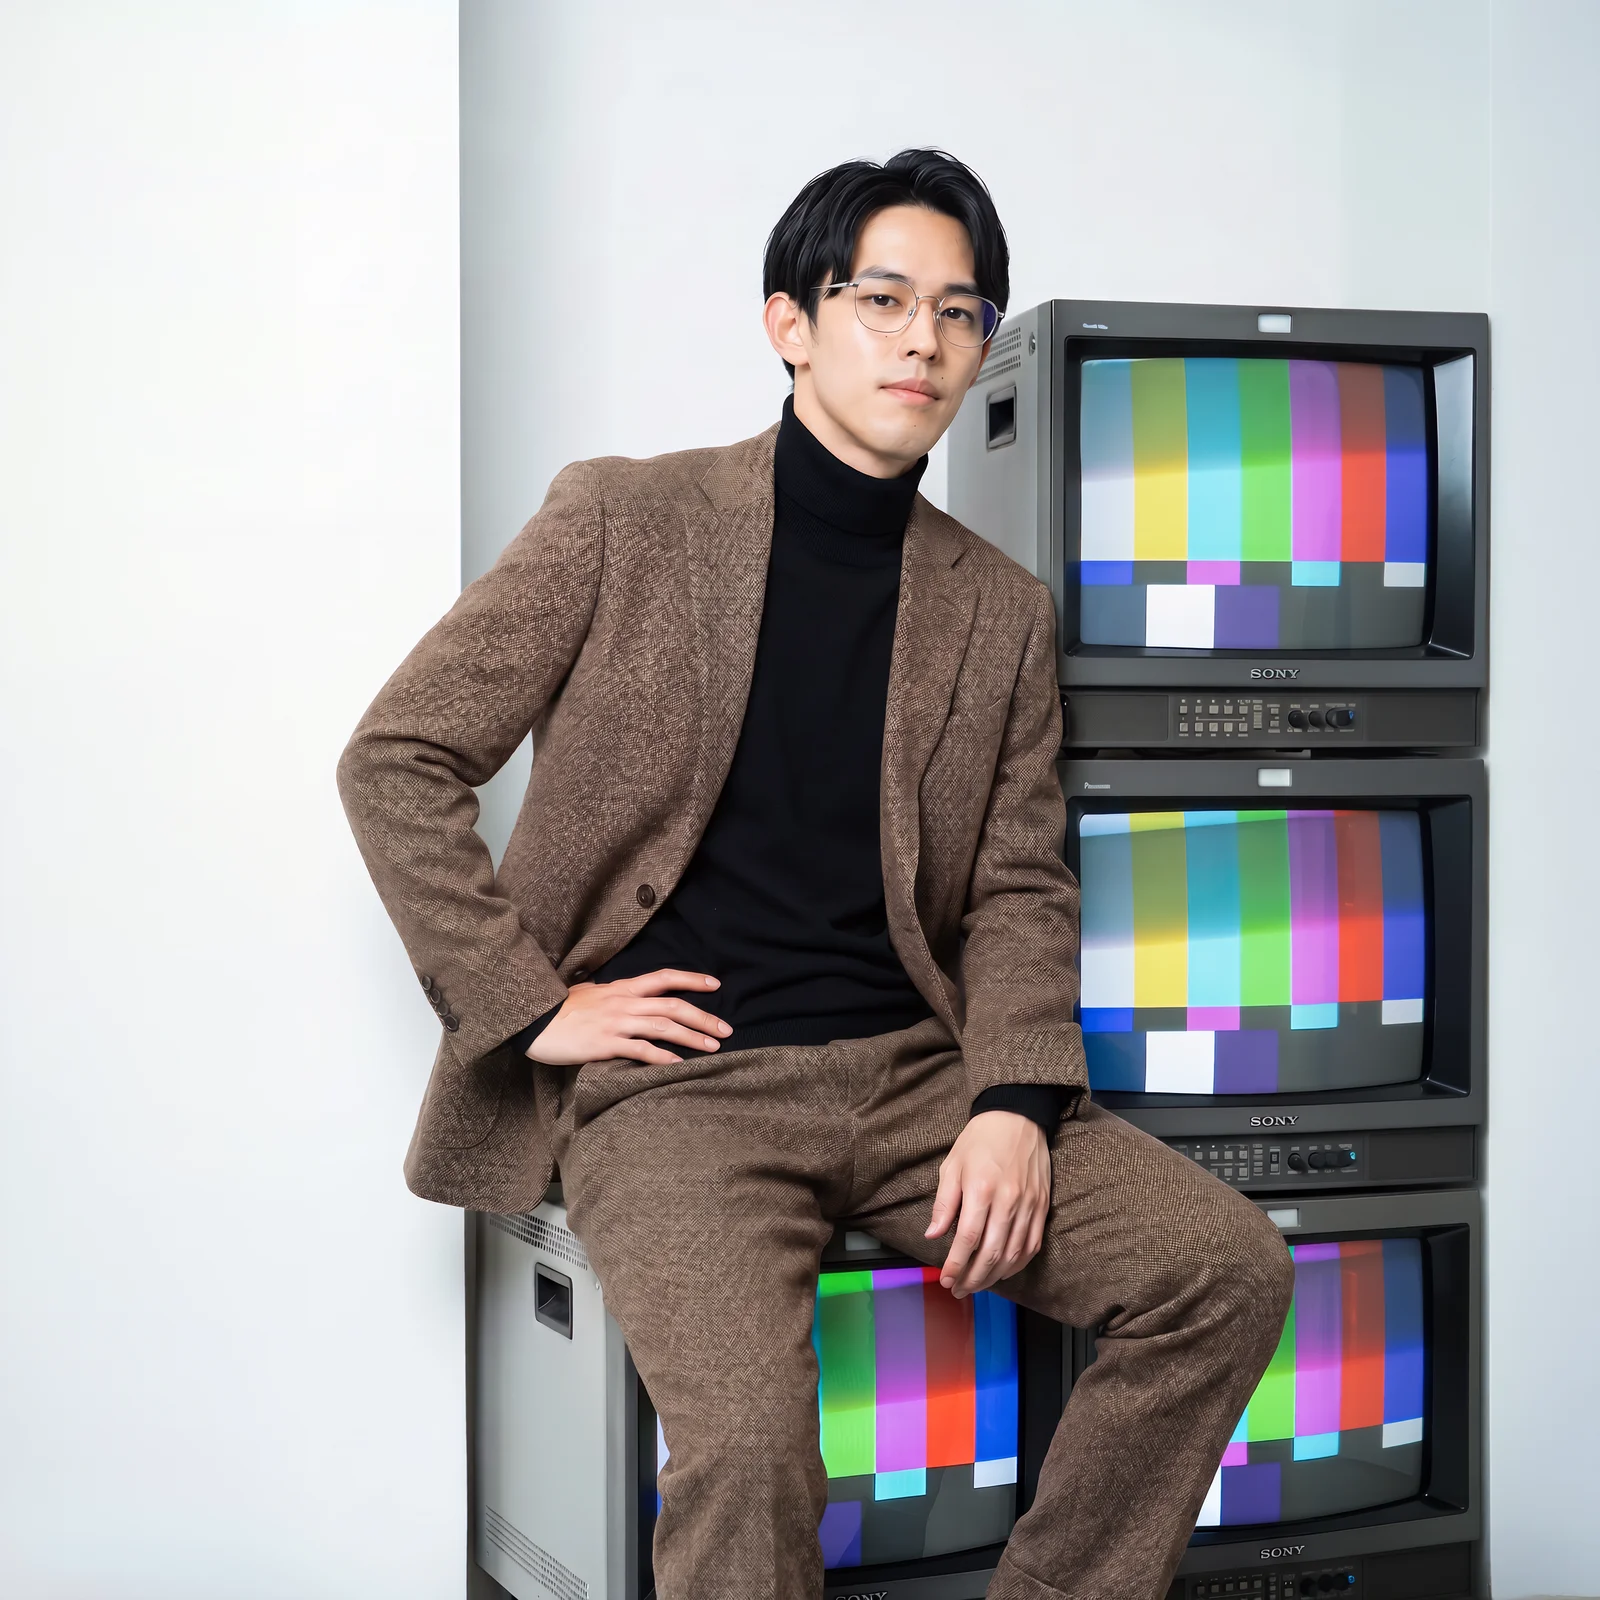
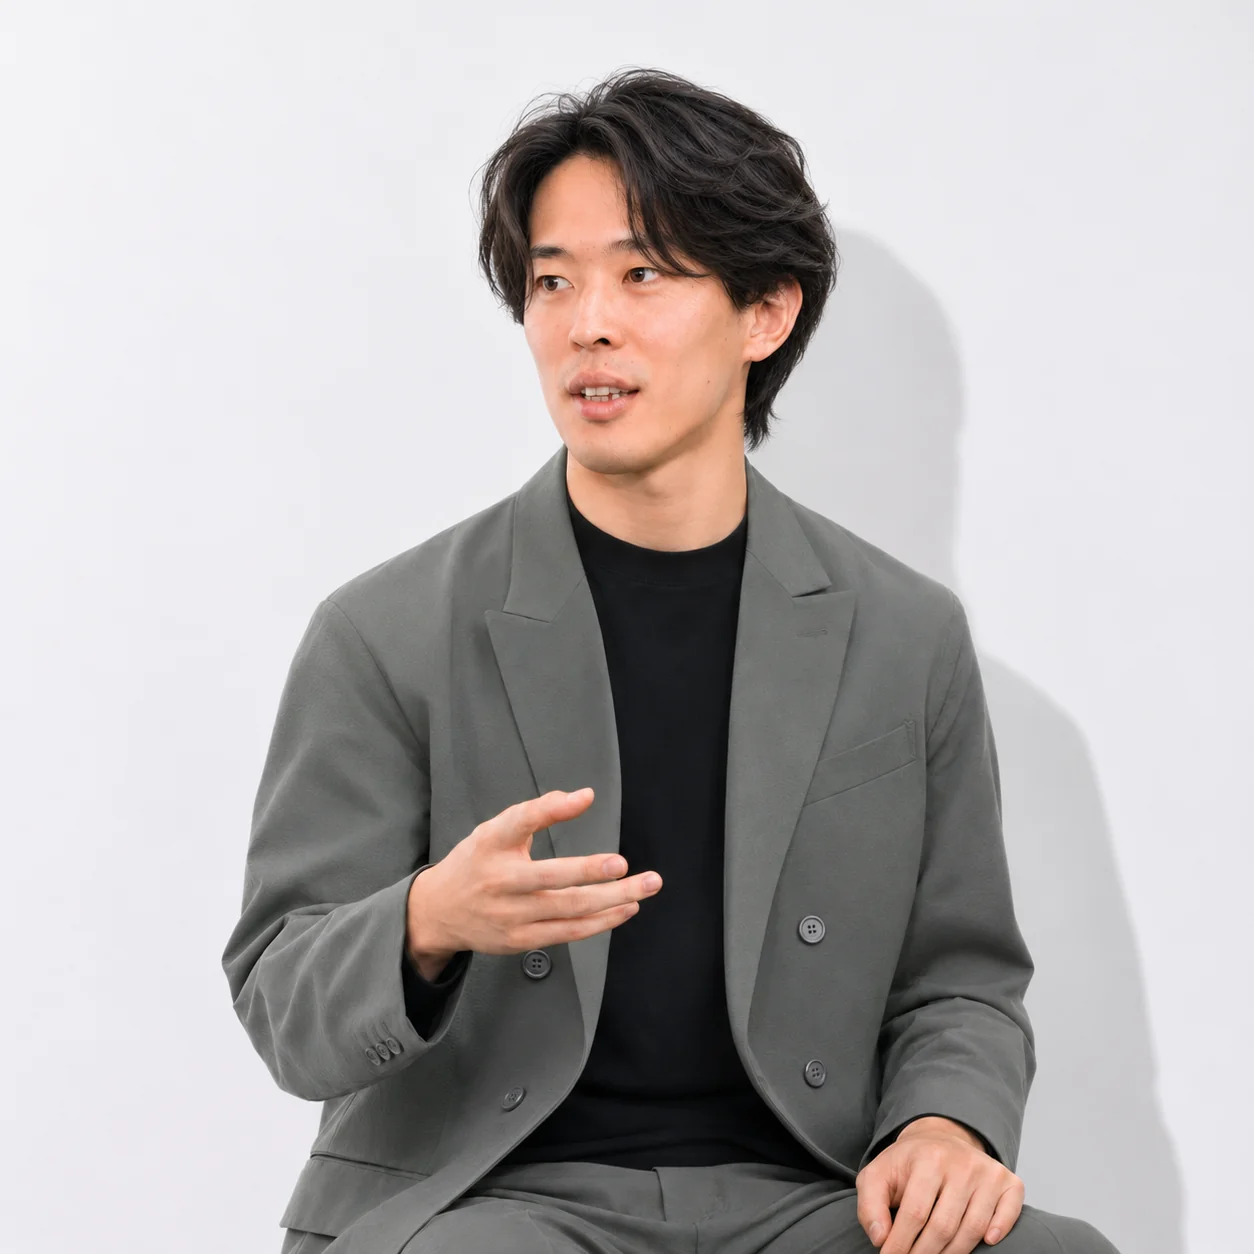
代表プロフィール画像を採用案08に更新

diff --git a/members.html b/members.html
@@ -89,7 +89,7 @@
               <div class="monitor">
                 <div class="monitor__hud"><span class="rec">REC</span><span>CAST.01</span></div>
                 <div class="monitor__screen">
-                  <img src="assets/img/members/member01.webp" alt="小林 弥起" width="1600" height="1600" loading="lazy">
+                  <img src="assets/img/members/member01.webp?v=20261118-08" alt="小林 弥起" width="1254" height="1254" loading="lazy">
                 </div>
               </div>
               <div class="cast__plate">

diff --git a/feedback-log.md b/feedback-log.md
@@ -2,6 +2,7 @@
 
 | 日付 | 依頼 | 対応 | バージョン |
 |---|---|---|---|
+| 2026-11-18 | 代表プロフィール画像を髪型案08に差し替え | 採用PNGから構図を変えず1254×1254px・quality 85のWebPを書き出し、メンバーページの代表写真を更新。画像寸法とキャッシュ更新用の参照番号も更新 | v19 |
 | 2026-11-18 | ファビコンをEmpire Artロゴ＋最下部の極細グラデーションバーの採用画像に変更し、本番反映 | 承認画像からICO(16/32/48/64/128/256px)、192/512px PNG、Apple Touch Icon(180px)を書き出し。全ページのアイコン参照をルート絶対パス＋更新番号付きに統一 | v18 |
 | 2026-10-03 | CH.05の下に研修概要がそのまま続くと他の事業と形が揃わないので、詳細ページに分ける | 研修詳細ページ crm-training.html(/crm-training)を新設し、研修について・研修概要・研修内容・資料請求CTAを移設(パンくず: ホーム/事業紹介/CRM実践研修、sitemapに追加)。事業紹介のCH.05は他の事業と同じ「モニター+説明」に戻し、「研修の詳細を見る →」リンク(.program__link)を追加 | v17 |
 | 2026-10-03 | CRM研修を実施していることをHPに追加(人材開発支援助成金の事業外訓練として、研修内容を公開しておくため)。CH.04-1ではなくCH.05として独立させる | 事業紹介にCH.05「CRM実践研修」を新設(研修概要: 研修名・目的・対象・期間・研修時間・実施形式・受講料・資料請求、研修内容6項目)。受講料は金額を載せず、受講案内(料金表)を資料請求で送る形。写真がないためモニターはカラーバーのタイトルカード(.title-card)。トップのザッピングにもCH.05を追加、企業情報の事業内容に「研修・人材育成業務」を追記。CH.04コーチング事業は変更なし | v16 |
